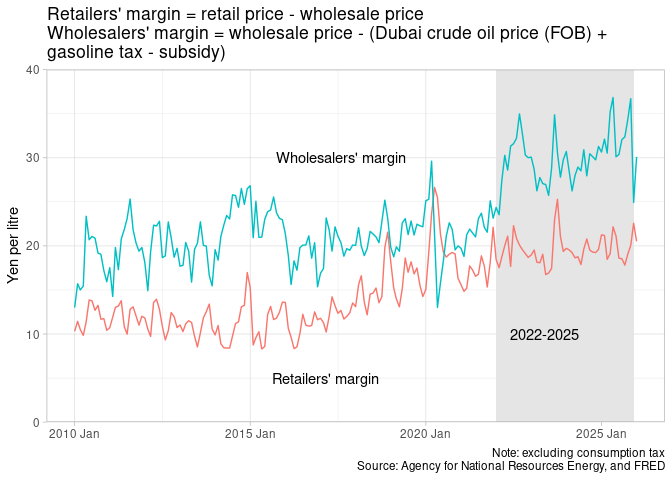
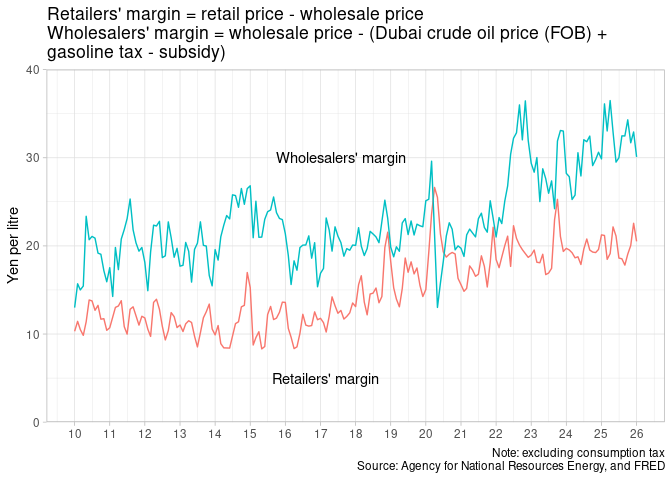
correct monthly subsidy by reflecting 2 week lag

diff --git a/README.md b/README.md
@@ -15,7 +15,7 @@ Mitsuo Shiota
   - [Subsidy](#subsidy-1)
   - [Margin (monthly)](#margin-monthly)
 
-Updated: 2026-03-14
+Updated: 2026-03-15
 
 ## Weekly update
 
@@ -590,7 +590,7 @@ combo_weekly |>
   geom_line() +
   scale_x_date(date_breaks = "12 week", date_labels = "%y %b %d") +
   labs(x = NULL, y = "Yen per litre",
-       title = "Retail + wholesale margin (weekly)",
+       title = "Retail price (weekly) - (Dubai crude oil price (FOB) +\ngasoline tax - subsidy)",
        caption = "Note: excluding consumption tax\nSource: Agency for National Resources Energy, and Investing.com") +
   theme(axis.text.x = element_text(angle = 90, vjust = 0.5),
         panel.grid.minor.x = element_blank())
@@ -650,10 +650,9 @@ dubai <- tq_get(c("POILDUBUSDM", "EXJPUS"), get = "economic.data", from = "2003-
 ### Subsidy
 
 ``` r
-meti_subsidy_monthly <- meti_subsidy|>
-  filter(!is.na(subsidy)) |>
-  mutate(month = yearmonth(start_date)) |>
-  summarize(subsidy = mean(subsidy), .by = month)
+meti_subsidy_monthly <- combo_weekly |> 
+  mutate(month = yearmonth(week)) |>
+  summarize(subsidy = mean(subsidy), .by = month) 
 ```
 
 ### Margin (monthly)
@@ -680,15 +679,12 @@ combo_monthly |>
   filter(month >= yearmonth("2010 Jan")) |> 
   pivot_longer(wholesalers_margin:retailers_margin) |> 
   ggplot(aes(month, value)) +
-  geom_rect(xmin = as.Date("2022-01-01"), xmax = as.Date("2025-12-01"), 
-            ymin = -Inf, ymax = Inf, fill = "gray90", alpha = 0.3) +
   geom_line(aes(color = name), show.legend = FALSE) +
-  annotate("text", x = as.Date("2022-01-01"), y = 10,
-           label = "2022-2025", hjust = -0.2) +
   annotate("text", x = as.Date("2015-01-01"), y = 5,
            label = "Retailers' margin", hjust = -0.2) +
   annotate("text", x = as.Date("2015-01-01"), y = 30,
            label = "Wholesalers' margin", hjust = -0.2) +
+  scale_x_yearmonth(date_breaks = "1 year", date_labels = "%y") +
   scale_y_continuous(limits = c(0, 40), expand = expansion(add = c(0, 0))) +
   labs(x = NULL, y = "Yen per litre",
        title = "Retailers' margin = retail price - wholesale price\nWholesalers' margin = wholesale price - (Dubai crude oil price (FOB) +\ngasoline tax - subsidy)",
